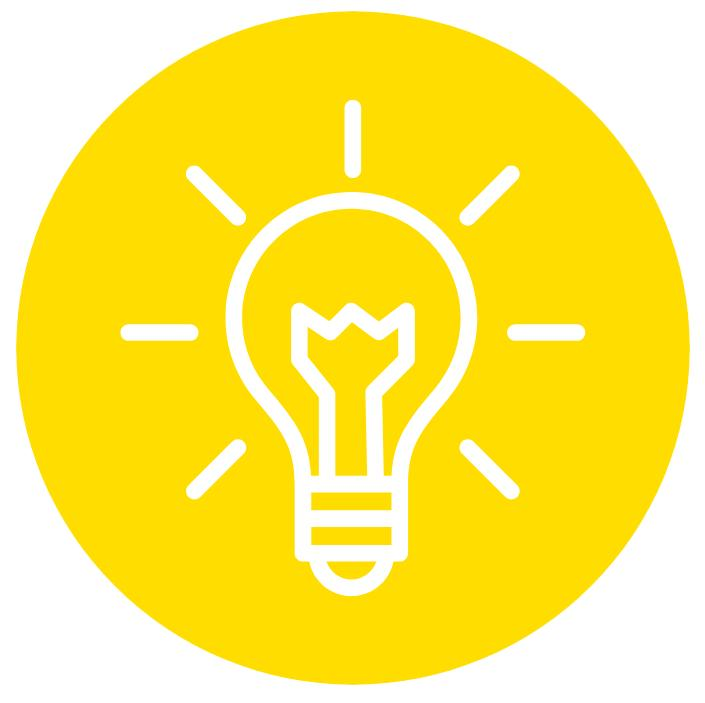
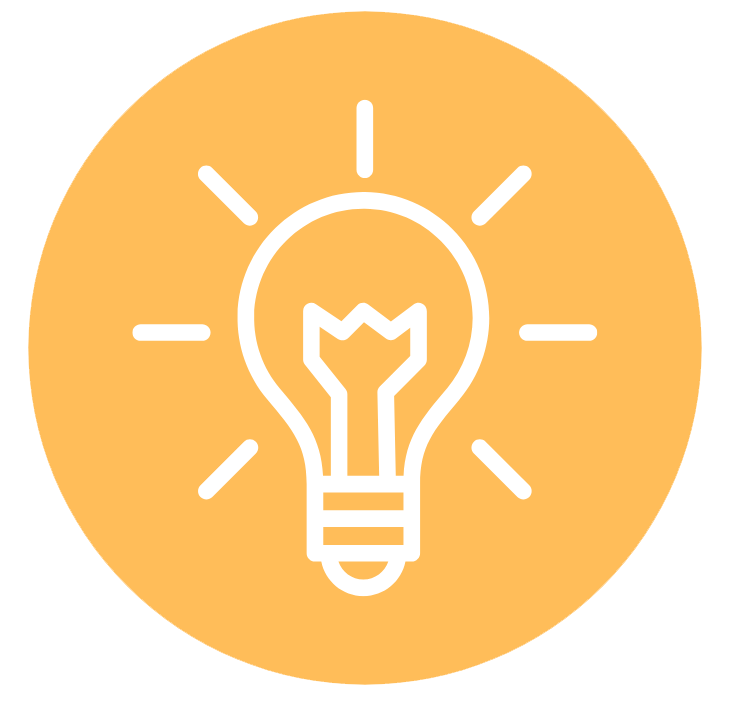
Add fix colors and variables

diff --git a/src/partials/landing-1.html b/src/partials/landing-1.html
@@ -2,16 +2,16 @@
 <h2 class="landing__title">Crea tu tarjeta de visita</h2>
 <p class="landing__subtitle">Crea mejores contactos profesionales de forma fácil y cómoda</p>
 <div class="landing__icons">
-    <div>
-        <a href="#"><img class="landing__icon" src="../images/diseña.jpeg" alt="Diseña"></a>
-        <p class="landing__icontext">Diseña</p>
-    </div>
-    <div>
-        <a href="#"><img class="landing__icon" src="../images/rellena.jpeg" alt=""></a>
-        <p class="landing__icontext">Rellena</p>
-    </div>
-    <div>
-        <a href="#"><img class="landing__icon" src="../images/comparte.jpeg" alt=""></a>
-        <p class="landing__icontext">Comparte</p>
-    </div>
+  <div>
+    <a href="#"><img class="landing__icon" src="../images/diseña.jpeg" alt="Diseña"></a>
+    <p class="landing__icontext">Diseña</p>
+  </div>
+  <div>
+    <a href="#"><img class="landing__icon" src="../images/rellena.jpeg" alt=""></a>
+    <p class="landing__icontext">Rellena</p>
+  </div>
+  <div>
+    <a href="#"><img class="landing__icon" src="../images/comparte.jpeg" alt=""></a>
+    <p class="landing__icontext">Comparte</p>
+  </div>
 </div>

diff --git a/src/scss/layout/_landing-1.scss b/src/scss/layout/_landing-1.scss
@@ -5,15 +5,23 @@
     }
 
     &__title {
-        color: $secondary-color;
+        color: $primary-color;
         font-family: $fontfamily-title-landing;
         font-weight: $fontweight-title-landing;
         font-size: $fontsize-title-landing;
         font-style: $fontstyle-title-landing;
     }
 
+    &__subtitle {
+        font-family: $fontfamily-subtitle-landing;
+        font-weight: $fontweight-subtitle-landing;
+        font-size: $fontsize-subtitle-landing;
+        font-style: $fontstyle-subtitle-landing;
+        color: $secondary-color;
+    }
+
     &__icons {
-        border: 1px solid $secondary-color;
+        border: 1px solid $primary-color;
         border-radius: 5%;
         margin-inline: 2rem;
         display: flex;
@@ -27,6 +35,8 @@
     }
 
     &__icontext {
+        font-family: $fontfamily-subtitle-landing;
+        color: $primary-color;
         text-align: center;
     }
 }

diff --git a/src/scss/core/_variables.scss b/src/scss/core/_variables.scss
@@ -1,7 +1,12 @@
 $fontfamily-title-landing: "DM Serif Text", serif;
-$fontweight-title-landing: 400;
+$fontweight-title-landing: 500;
 $fontstyle-title-landing: normal;
-$fontsize-title-landing: 35px;
+$fontsize-title-landing: 40px;
 
-$primary-color: #00c49a;
-$secondary-color: #ffbd59;
+$fontfamily-subtitle-landing: "Open Sans", serif;
+$fontweight-subtitle-landing: 400;
+$fontstyle-subtitle-landing: normal;
+$fontsize-subtitle-landing: 20px;
+
+$primary-color: #ffbd59;
+$secondary-color: #029978;
